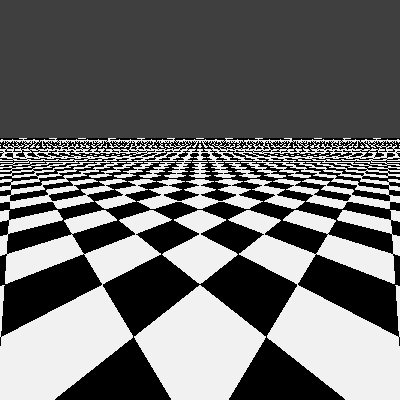
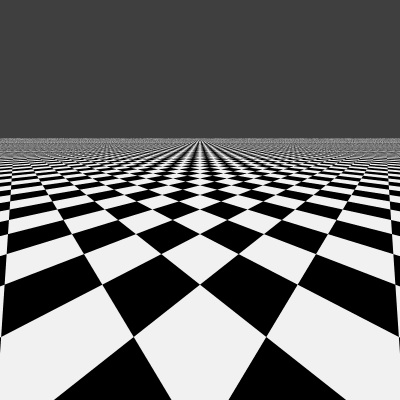
[CHANGED] more samples to best demo
Former-commit-id: 8d5e6ccba0a41e59316325fee3f88cc209b3dbfd

diff --git a/raytracer/src/demo/BuildShadedObjects_04.cpp b/raytracer/src/demo/BuildShadedObjects_04.cpp
@@ -1,5 +1,4 @@
-#include "World.h"
-
+#include "world/World.h"
 #include "samplers/Jittered.h"
 #include "lights/Ambient.h"
 #include "lights/Directional.h"
@@ -15,7 +14,7 @@ namespace rt
 
 void World::Build()
 {
-	int num_samples = 1;  // use 1 for 4.8(a), 64 for 4.8(b)
+	int num_samples = 64;  // use 1 for 4.8(a), 64 for 4.8(b)
 
 	Jittered* sampler_ptr = new Jittered(num_samples);
 
